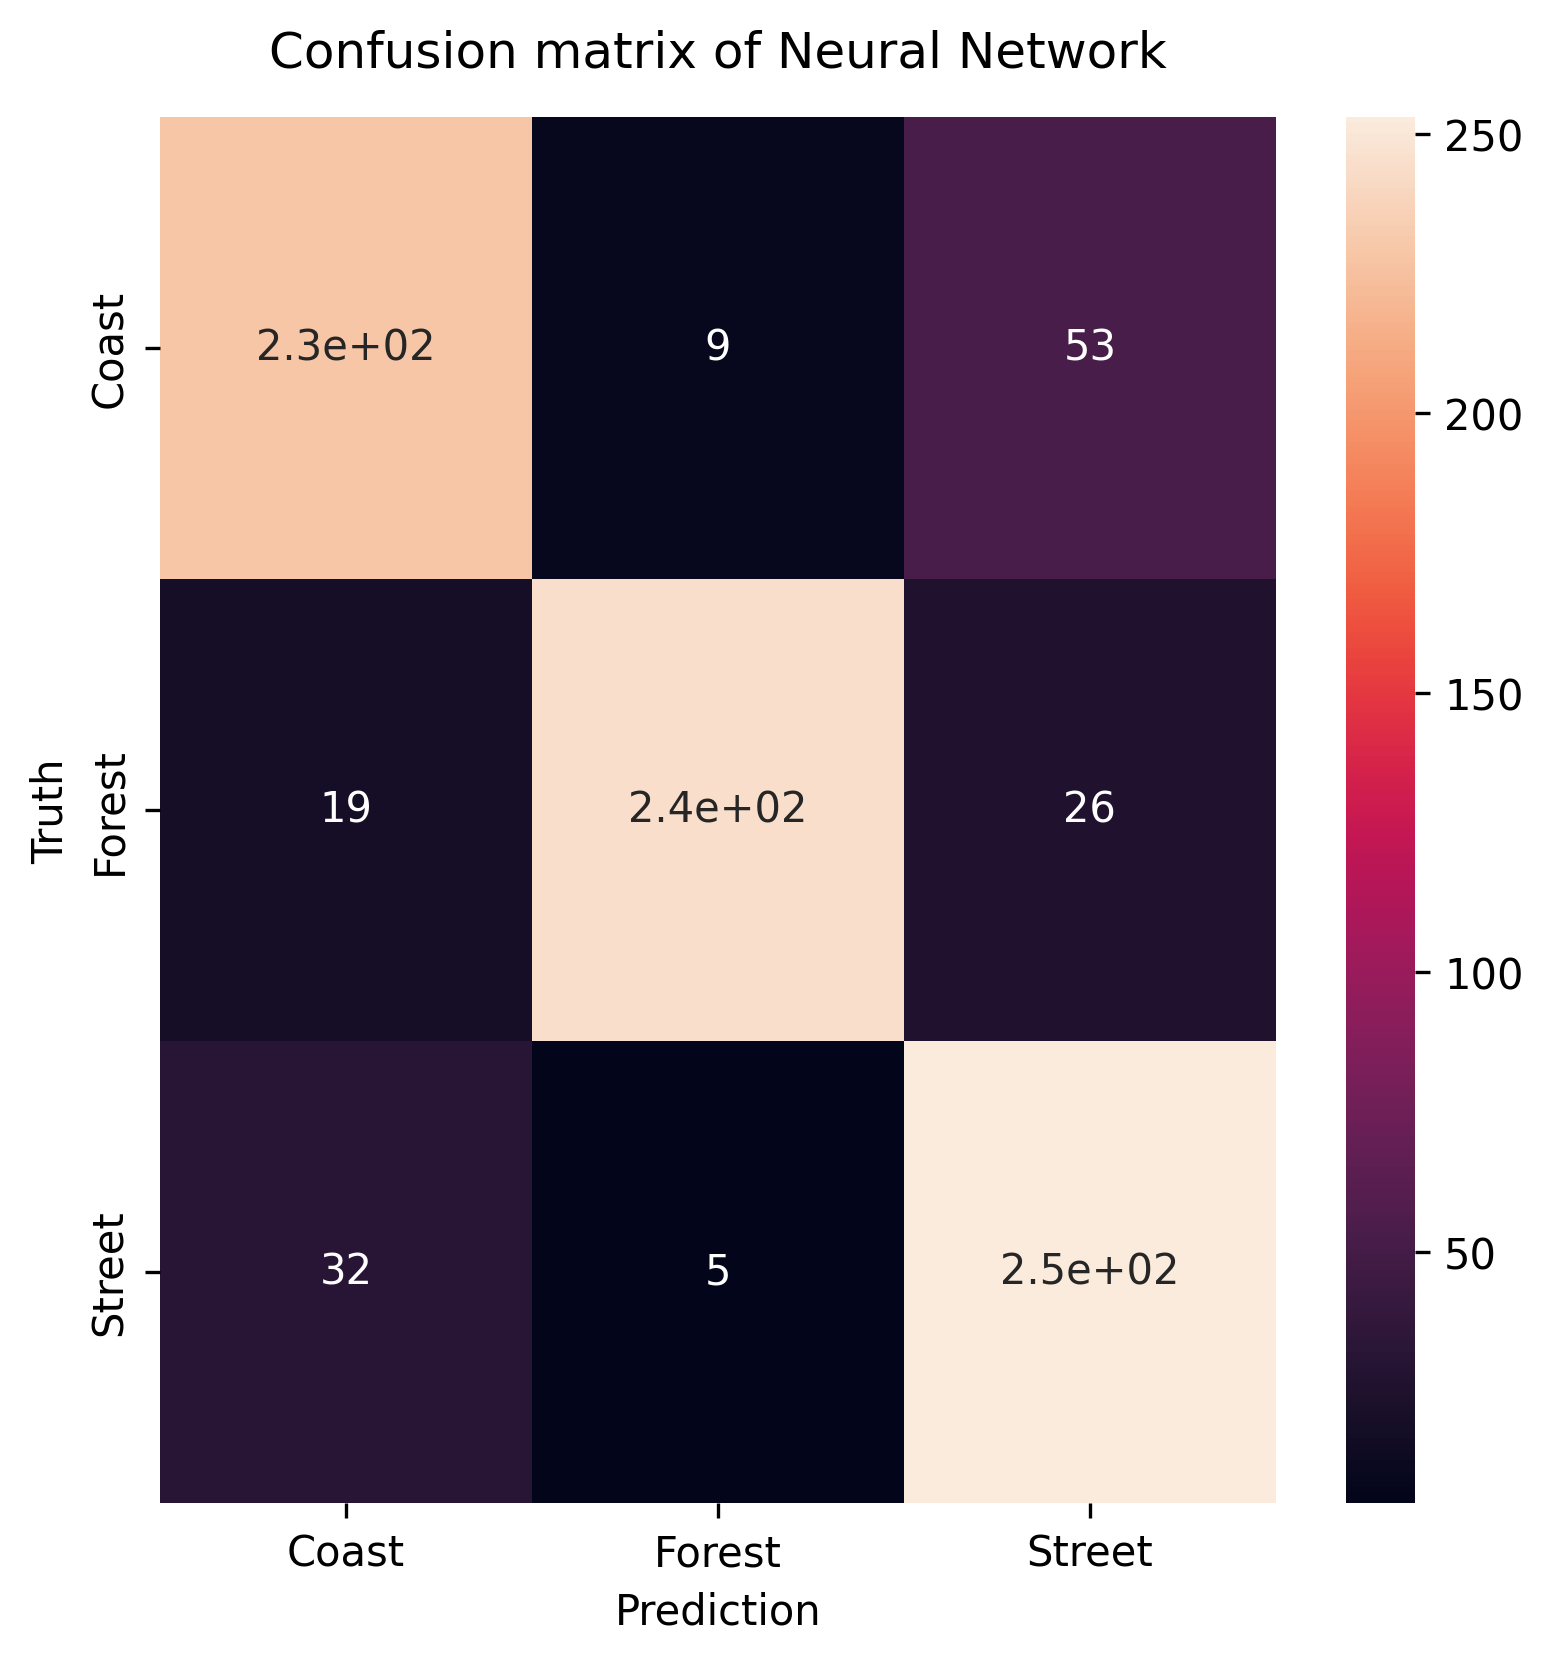
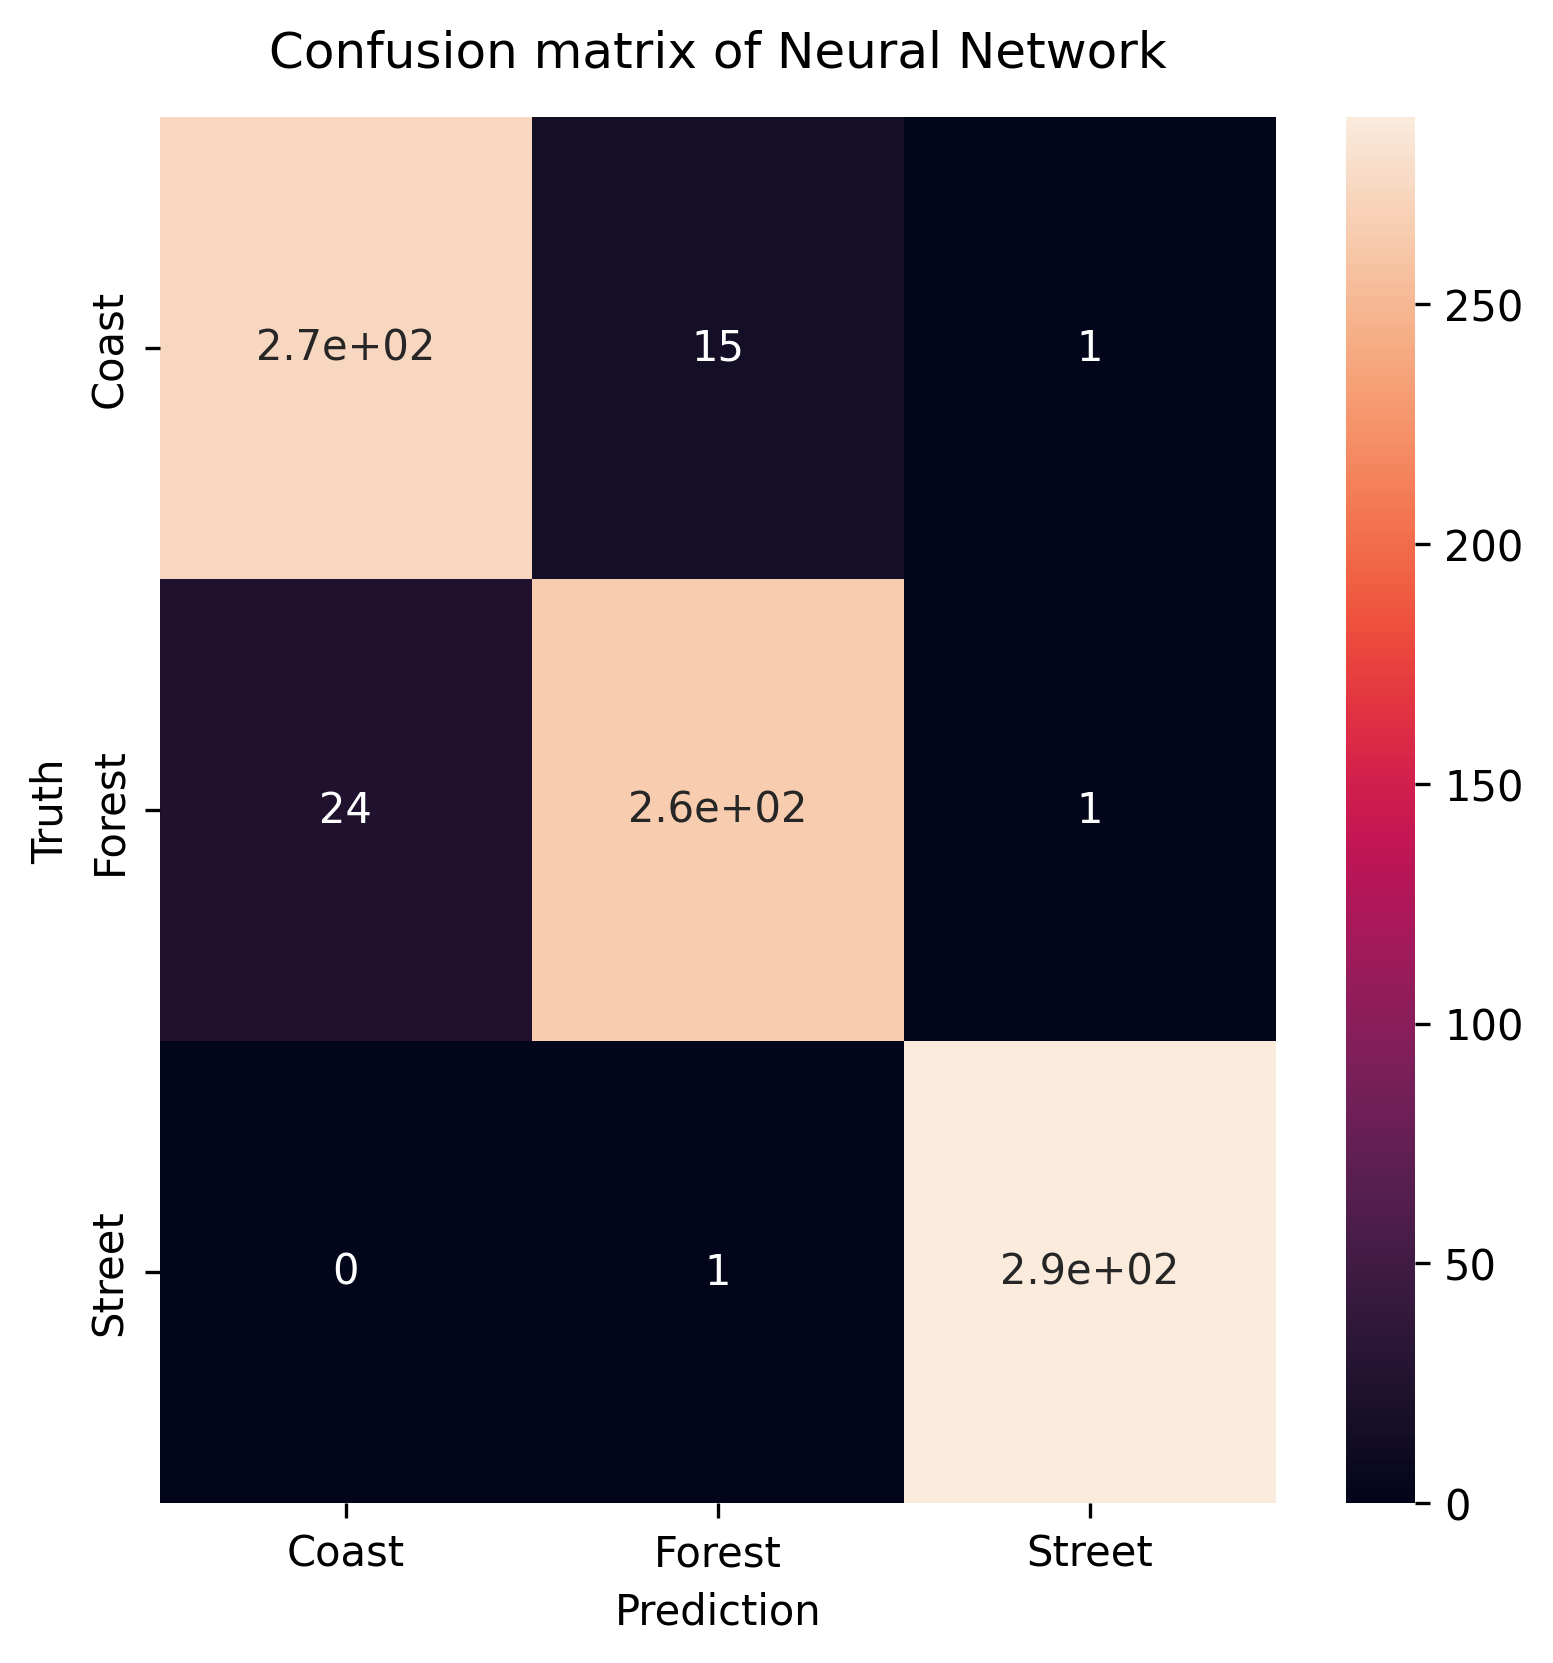
nah nah nah, nah

diff --git a/problematique/analysis.py b/problematique/analysis.py
@@ -127,6 +127,7 @@ def viewEllipse(data, ax, scale=1, facecolor='none', edgecolor='red', **kwargs):
                       edgecolor=edgecolor, linewidth=2, **kwargs)
     return ax.add_patch(ellipse)
 
+
 def view_classes(data, extent, border_coeffs=None):
     """
     Affichage des classes dans data
@@ -141,17 +142,19 @@ def view_classes(data, extent, border_coeffs=None):
     dims = np.asarray(data).shape
 
     fig1, ax1 = plt.subplots(1, 1)
-    ax1.set_title(r'Visualisation des classes, des ellipses à distance 1$\sigma$' + ('et des frontières' if border_coeffs is not None else ''))
+    ax1.set_title(
+        r'Visualisation des classes, des ellipses à distance 1$\sigma$' + "\nentre l'intégrale du canal vert 32x32 normalisé compréhensivement\net l'entropie des hautes fréquences")
 
     #  TODO: rendre général, seulement 3 classes pour l'instant
-    colorpoints = ['orange', 'purple', 'black']
+    colorpoints = ['red', 'green', 'blue']
     colorfeatures = ['red', 'green', 'blue']
+    pisse = ['coasts', 'forests', 'streets']
 
     for i in range(dims[0]):
         tempdata = data[i]
         m, cov, valpr, vectprop = calcModeleGaussien(tempdata)
         ax1.scatter(tempdata[:, 0], tempdata[:, 1], s=5, c=colorpoints[i])
-        ax1.scatter(m[0], m[1], c=colorfeatures[i])
+        ax1.scatter(m[0], m[1], c=colorfeatures[i], label=pisse[i])
         viewEllipse(tempdata, ax1, edgecolor=colorfeatures[i])
 
     # Ajout des frontières
@@ -167,7 +170,9 @@ def view_classes(data, extent, border_coeffs=None):
 
     ax1.set_xlim([extent.xmin, extent.xmax])
     ax1.set_ylim([extent.ymin, extent.ymax])
-
+    ax1.set_xlabel('Intégrale du canal vert 32x32 normalisé.e')
+    ax1.set_ylabel('Entropie de haute fréquence normalisée')
+    ax1.legend()
     ax1.axes.set_aspect('equal')
 
 

diff --git a/problematique/problematiqueDepart.py b/problematique/problematiqueDepart.py
@@ -250,6 +250,22 @@ def main():
     donneesTest = an.genDonneesTest(ndonnees, an.Extent(xmin=min, xmax=max, ymin=min, ymax=max), ndim=features.shape[1])
 
     if False:
+        # 3 classes par graphiques et ellipse entre 2 dimensions.
+        xdim, ydim = 9, 5
+        xmin, xmax = np.min(features[:, xdim]), np.max(features[:, xdim])
+        ymin, ymax = np.min(features[:, 5]), np.max(features[:, 5])
+        xrange, yrange = xmax - xmin, ymax - ymin
+        c = np.vstack(((coasts_features[:, 9] - xmin) / xrange, (coasts_features[:, 5] - ymin) / yrange)).T
+        f = np.vstack(((forests_features[:, 9] - xmin) / xrange, (forests_features[:, 5] - ymin) / yrange)).T
+        s = np.vstack(((streets_features[:, 9] - xmin) / xrange, (streets_features[:, 5] - ymin) / yrange)).T
+        allClasses = [c, f, s]
+        an.view_classes(allClasses, an.Extent(xmin=0, xmax=1, ymin=0, ymax=1))
+
+        plt.show()
+
+        print('pouet')
+
+    if True:
         x = [coasts_features, forests_features, streets_features] #/ np.max(features)
         
         # TODO Classifier Bayesien
@@ -270,7 +286,7 @@ def main():
         plt.ylabel("Truth")
         plt.savefig('confusion_bayes.png', dpi=300, bbox_inches='tight')
 
-    if False:
+    if True:
         ndonnees = 15000
         coasts_features = coasts_features / np.max(coasts_features, axis=0)
         forests_features = forests_features / np.max(forests_features, axis=0)
